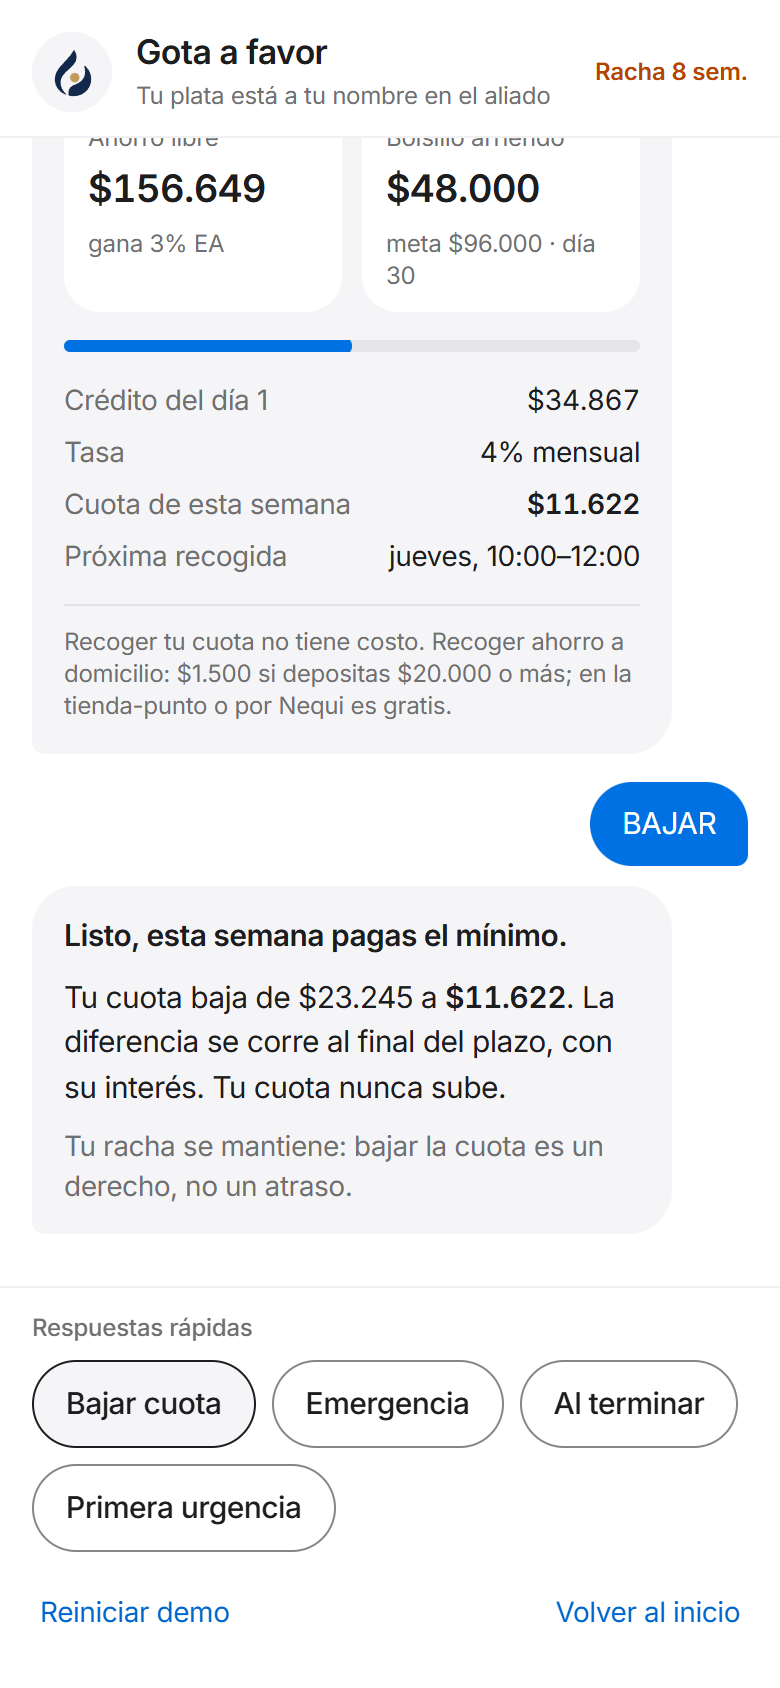
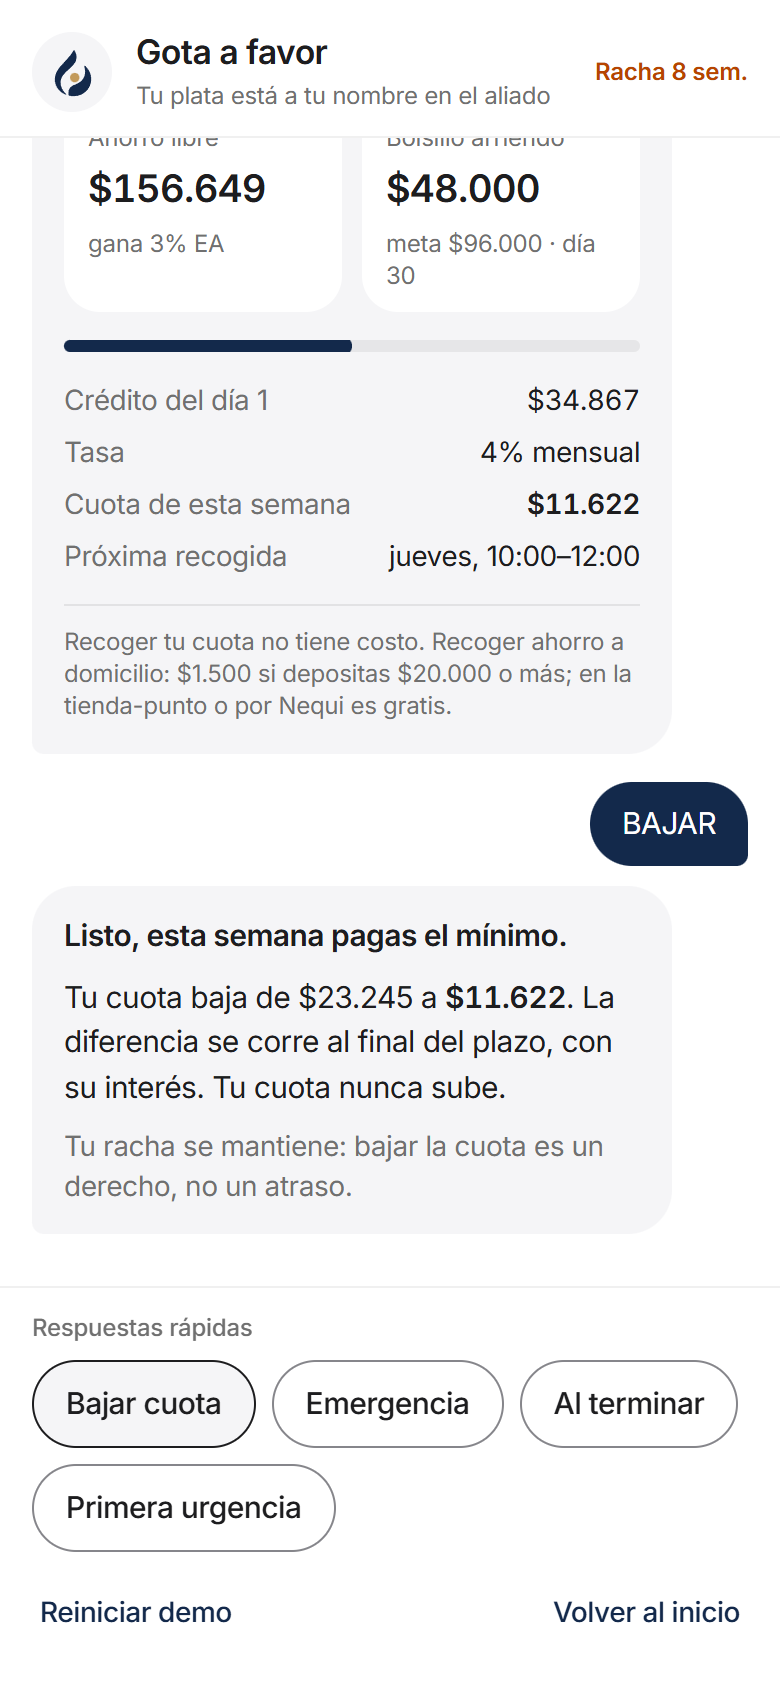
Colores de marca en la acción: navy en vez del azul genérico
- Botones, enlaces, burbujas del usuario, barras de avance, filtros
  elegidos y foco pasan a brand-navy (#13294b), con hover #0b1a33
- Se quitan los tokens blue, blue-fill y blue-deep del DESIGN
- Renders del inicio regenerados e importados de forma estática para
  que la URL lleve hash y nunca salgan de caché

diff --git a/src/app/page.tsx b/src/app/page.tsx
@@ -1,10 +1,14 @@
-import Image from "next/image";
+import Image, { type StaticImageData } from "next/image";
 import Link from "next/link";
 import { ChevronRight } from "lucide-react";
 import { BarraDemo } from "@/components/BarraDemo";
 import { Logotipo } from "@/components/Marca";
 import { Revelador } from "@/components/Revelador";
 import { foco, transicion } from "@/components/estilos";
+// Importación estática: Next pone un hash de contenido en la URL, así un render nuevo nunca sale de caché.
+import renderCliente from "../../public/renders/cliente.png";
+import renderPlataforma from "../../public/renders/plataforma.png";
+import renderRecaudador from "../../public/renders/recaudador.png";
 
 const vistas = [
   {
@@ -12,21 +16,21 @@ const vistas = [
     kicker: "Cliente",
     titulo: "Tu plata, a tu nombre. Por WhatsApp.",
     texto: "Marta ve su extracto semanal, baja su cuota, pide una emergencia o resuelve su primera urgencia.",
-    render: { src: "/renders/cliente.png", ancho: 780, alto: 1688 },
+    render: renderCliente,
   },
   {
     href: "/recaudador",
     kicker: "Recaudador",
     titulo: "La ruta del barrio, con comprobante.",
     texto: "Registra cada visita, envía el comprobante y cuida el efectivo en mano hasta la tienda-punto.",
-    render: { src: "/renders/recaudador.png", ancho: 780, alto: 1688 },
+    render: renderRecaudador,
   },
   {
     href: "/plataforma",
     kicker: "Plataforma",
     titulo: "El piloto, por dentro.",
     texto: "Seguimiento, rutas, clientes, aliado y comisiones, y distribuidores, con cifras del mes 7.",
-    render: { src: "/renders/plataforma.png", ancho: 1920, alto: 1200 },
+    render: renderPlataforma,
   },
 ] as const;
 
@@ -37,7 +41,7 @@ const pasos = [
   { titulo: "Crédito que solo baja", texto: "Tu racha abre crédito regulado; la cuota puede bajar, nunca subir." },
 ];
 
-const enlaceAzul = `inline-flex min-h-11 items-center gap-0.5 rounded-link text-body text-blue underline-offset-4 hover:underline ${transicion} ${foco}`;
+const enlaceMarca = `inline-flex min-h-11 items-center gap-0.5 rounded-link text-body font-medium text-brand-navy underline-offset-4 hover:underline ${transicion} ${foco}`;
 
 export default function Inicio() {
   return (
@@ -67,11 +71,11 @@ export default function Inicio() {
             <div className="mt-2 flex flex-wrap items-center justify-center gap-x-6 gap-y-3">
               <Link
                 href="/cliente"
-                className={`presionable inline-flex h-11 items-center rounded-full bg-blue-fill px-6 text-body font-medium text-white hover:bg-blue-deep ${foco}`}
+                className={`presionable inline-flex h-11 items-center rounded-full bg-brand-navy px-6 text-body font-medium text-white hover:bg-brand-navy-deep ${foco}`}
               >
                 Ver la demo
               </Link>
-              <Link href="#mecanismo" className={enlaceAzul}>
+              <Link href="#mecanismo" className={enlaceMarca}>
                 Cómo funciona
                 <ChevronRight size={18} strokeWidth={1.75} aria-hidden />
               </Link>
@@ -80,9 +84,9 @@ export default function Inicio() {
           </div>
 
           <div className="mx-auto mt-14 flex max-w-[760px] items-end justify-center gap-4 sm:gap-8 md:mt-16">
-            <Telefono src="/renders/recaudador.png" alt="" className="hidden translate-y-10 sm:block" />
+            <Telefono src={renderRecaudador} alt="" className="hidden translate-y-10 sm:block" />
             <Telefono
-              src="/renders/cliente.png"
+              src={renderCliente}
               alt="El chat del cliente: extracto semanal con ahorro, bolsillo arriendo y cuota de la semana"
               prioridad
             />
@@ -96,7 +100,7 @@ export default function Inicio() {
               <h2 id="vistas-titulo" className="font-display text-[32px] leading-tight font-semibold md:text-feature">
                 Recorre el prototipo.
               </h2>
-              <Link href="/cliente" className={enlaceAzul}>
+              <Link href="/cliente" className={enlaceMarca}>
                 Empezar por el cliente
                 <ChevronRight size={18} strokeWidth={1.75} aria-hidden />
               </Link>
@@ -112,17 +116,15 @@ export default function Inicio() {
                       <p className="text-body-sm font-semibold text-ink">{v.kicker}</p>
                       <h3 className="font-display text-feature-sm font-semibold text-ink">{v.titulo}</h3>
                       <p className="text-body text-muted">{v.texto}</p>
-                      <span className="mt-1 inline-flex items-center gap-0.5 text-body text-blue group-hover:underline">
+                      <span className="mt-1 inline-flex items-center gap-0.5 text-body font-medium text-brand-navy group-hover:underline">
                         Abrir
                         <ChevronRight size={18} strokeWidth={1.75} aria-hidden />
                       </span>
                     </div>
                     <div className="relative mt-auto h-64 overflow-hidden">
                       <Image
-                        src={v.render.src}
+                        src={v.render}
                         alt=""
-                        width={v.render.ancho}
-                        height={v.render.alto}
                         sizes="(min-width: 1024px) 380px, 90vw"
                         className={
                           v.href === "/plataforma"
@@ -194,7 +196,7 @@ function Telefono({
   className = "",
   prioridad = false,
 }: {
-  src: string;
+  src: StaticImageData;
   alt: string;
   className?: string;
   prioridad?: boolean;
@@ -204,8 +206,6 @@ function Telefono({
       <Image
         src={src}
         alt={alt}
-        width={780}
-        height={1688}
         priority={prioridad}
         sizes="270px"
         className="h-auto w-full rounded-[36px] sm:rounded-[41px]"

diff --git a/src/components/estilos.ts b/src/components/estilos.ts
@@ -1,32 +1,32 @@
 /**
- * Clases compartidas, según DESIGN (1): botones en píldora, azul solo para
- * acciones y enlaces, foco visible en azul. "presionable" (globals.css) da la
+ * Clases compartidas, según DESIGN (1): botones en píldora. El color de acción
+ * es el navy de la marca (botones, enlaces y foco visible). "presionable" (globals.css) da la
  * respuesta al presionar: escala 0,97 al bajar el dedo.
  */
 
 export const foco =
-  "focus-visible:outline-none focus-visible:ring-2 focus-visible:ring-blue/50 focus-visible:ring-offset-2 focus-visible:ring-offset-card";
+  "focus-visible:outline-none focus-visible:ring-2 focus-visible:ring-brand-navy/40 focus-visible:ring-offset-2 focus-visible:ring-offset-card";
 
 export const transicion = "transition-colors duration-150 ease-out";
 
-/** Píldora azul de acción (Pricing Blue). */
-export const botonPrimario = `presionable inline-flex h-11 items-center justify-center rounded-full bg-blue-fill px-5 text-[15px] font-medium text-white hover:bg-blue-deep disabled:bg-control disabled:text-muted ${foco}`;
+/** Píldora navy de acción (color de la marca). */
+export const botonPrimario = `presionable inline-flex h-11 items-center justify-center rounded-full bg-brand-navy px-5 text-[15px] font-medium text-white hover:bg-brand-navy-deep disabled:bg-control disabled:text-muted ${foco}`;
 
 /** Píldora con contorno (Outlined Explore Pill): sin relleno de color. */
 export const botonSecundario = `presionable inline-flex h-11 items-center justify-center rounded-full border border-steel bg-card px-4 text-[15px] font-medium text-ink hover:border-ink hover:bg-mist disabled:border-line disabled:text-muted disabled:hover:bg-card ${foco}`;
 
-/** Opción elegible dentro de una respuesta: se rellena en azul al elegirla. */
+/** Opción elegible dentro de una respuesta: se rellena en navy al elegirla. */
 export const botonOpcion = (activo: boolean) =>
   `presionable inline-flex h-11 items-center justify-center rounded-full border px-4 text-[15px] font-medium ${foco} ${
     activo
-      ? "border-blue-fill bg-blue-fill text-white hover:bg-blue-deep"
+      ? "border-brand-navy bg-brand-navy text-white hover:bg-brand-navy-deep"
       : "border-steel bg-card text-ink hover:border-ink hover:bg-mist"
   }`;
 
-/** Enlace de texto azul (Apple Blue), con área táctil de 44 px. */
-export const botonDiscreto = `inline-flex h-11 items-center rounded-link px-1 text-body-sm text-blue underline-offset-4 hover:underline ${transicion} ${foco}`;
+/** Enlace de texto navy de la marca, con área táctil de 44 px. */
+export const botonDiscreto = `inline-flex h-11 items-center rounded-link px-1 text-body-sm font-medium text-brand-navy underline-offset-4 hover:underline ${transicion} ${foco}`;
 
 /** Variantes compactas (14 px) para filas con dos botones en el ancho de un celular. */
-export const botonPrimarioCompacto = `presionable inline-flex h-11 items-center justify-center rounded-full bg-blue-fill px-4 text-body-sm font-medium whitespace-nowrap text-white hover:bg-blue-deep disabled:bg-control disabled:text-muted ${foco}`;
+export const botonPrimarioCompacto = `presionable inline-flex h-11 items-center justify-center rounded-full bg-brand-navy px-4 text-body-sm font-medium whitespace-nowrap text-white hover:bg-brand-navy-deep disabled:bg-control disabled:text-muted ${foco}`;
 
 export const botonSecundarioCompacto = `presionable inline-flex h-11 items-center justify-center rounded-full border border-steel bg-card px-3.5 text-body-sm font-medium whitespace-nowrap text-ink hover:border-ink hover:bg-mist disabled:border-line disabled:text-muted disabled:hover:bg-card ${foco}`;

diff --git a/tailwind.config.ts b/tailwind.config.ts
@@ -2,9 +2,9 @@ import type { Config } from "tailwindcss";
 
 /**
  * Tokens de Gota a favor, según DESIGN (1): galería blanca estilo Apple.
- * Lienzo blanco, bandas #f5f5f7, texto #1d1d1f y un solo azul para enlaces y
- * acciones. El navy y el dorado quedan para la marca. Nunca hex sueltos en
- * los componentes.
+ * Lienzo blanco, bandas #f5f5f7 y texto #1d1d1f. El color de acción es el
+ * navy de la marca (no el azul genérico del DESIGN) y el dorado queda para
+ * acentos de marca. Nunca hex sueltos en los componentes.
  */
 const config: Config = {
   content: ["./src/**/*.{ts,tsx}"],
@@ -24,10 +24,6 @@ const config: Config = {
         muted: "#707070", // Slate: texto secundario
         steel: "#86868b", // contornos de píldoras y entradas
         "on-dark": "#a1a1a6", // texto secundario sobre fondo oscuro
-        // Acción
-        blue: "#0066cc", // Apple Blue: enlaces
-        "blue-fill": "#0071e3", // Pricing Blue: botones de acción
-        "blue-deep": "#0060c0", // presión y hover de los botones azules
         // Estados
         orange: "#b64400", // Launch Orange: etiquetas de estado
         "orange-soft": "#fff3eb",
@@ -36,8 +32,10 @@ const config: Config = {
         "green-soft": "#e8f5eb",
         red: "#c4001a",
         "red-soft": "#fdecee",
-        // Marca (logo)
+        // Marca (logo). El navy es el color de acción: botones, enlaces,
+        // burbujas del usuario, barras de avance y foco.
         "brand-navy": "#13294b",
+        "brand-navy-deep": "#0b1a33", // hover y presión de los botones navy
         gold: "#c29a5b", // punto de la gota y barra de efectivo alta
         "gold-text": "#8a6530", // "favor" del logotipo en texto (contraste AA)
       },

diff --git a/src/components/plataforma/ui.tsx b/src/components/plataforma/ui.tsx
@@ -5,7 +5,7 @@ import { foco, transicion } from "../estilos";
 
 /**
  * Piezas del tablero según DESIGN (1): tarjetas blancas de 28 px sin borde ni
- * sombra sobre la banda #f5f5f7, tiles internos en #f5f5f7 y enlaces azules.
+ * sombra sobre la banda #f5f5f7, tiles internos en #f5f5f7 y enlaces en navy de la marca.
  */
 
 export function Tarjeta({ children, className = "", id }: { children: ReactNode; className?: string; id?: string }) {
@@ -32,7 +32,7 @@ export function EncabezadoTarjeta({
       {enlace && (
         <Link
           href={enlace.href}
-          className={`inline-flex min-h-8 items-center gap-0.5 rounded-link text-body-sm text-blue underline-offset-4 hover:underline ${transicion} ${foco}`}
+          className={`inline-flex min-h-8 items-center gap-0.5 rounded-link text-body-sm font-medium text-brand-navy underline-offset-4 hover:underline ${transicion} ${foco}`}
         >
           {enlace.label}
           <ChevronRight size={16} strokeWidth={1.75} aria-hidden />
@@ -103,7 +103,7 @@ export function Barra({
       className={`${alto} overflow-hidden rounded-full bg-control`}
     >
       <div
-        className={`${alto} w-full origin-left rounded-full bg-blue-fill transition-transform duration-300 ease-out motion-reduce:transition-none`}
+        className={`${alto} w-full origin-left rounded-full bg-brand-navy transition-transform duration-300 ease-out motion-reduce:transition-none`}
         style={{ transform: `scaleX(${f})` }}
       />
     </div>

diff --git a/src/components/plataforma/Clientes.tsx b/src/components/plataforma/Clientes.tsx
@@ -93,7 +93,7 @@ export function Clientes() {
                   onClick={() => setFiltro(f.id)}
                   className={`presionable h-9 rounded-full border px-3.5 text-body-sm font-medium ${foco} ${
                     filtro === f.id
-                      ? "border-blue-fill bg-blue-fill text-white hover:bg-blue-deep"
+                      ? "border-brand-navy bg-brand-navy text-white hover:bg-brand-navy-deep"
                       : "border-steel bg-card text-ink-soft hover:border-ink hover:text-ink"
                   }`}
                 >
@@ -131,7 +131,7 @@ export function Clientes() {
                             type="button"
                             aria-pressed={activo}
                             onClick={() => elegir(c.id)}
-                            className={`flex min-h-11 w-full flex-col justify-center rounded-link px-1 text-left hover:text-blue ${foco}`}
+                            className={`flex min-h-11 w-full flex-col justify-center rounded-link px-1 text-left font-medium hover:text-brand-navy ${foco}`}
                           >
                             <span className="font-semibold">{c.nombre}</span>
                             <span className="text-caption text-muted">{c.negocio}</span>

diff --git a/src/components/cliente/ChatCliente.tsx b/src/components/cliente/ChatCliente.tsx
@@ -127,7 +127,7 @@ export function ChatCliente() {
             className="h-1.5 overflow-hidden rounded-full bg-control"
           >
             <div
-              className="h-1.5 w-full origin-left rounded-full bg-blue-fill"
+              className="h-1.5 w-full origin-left rounded-full bg-brand-navy"
               style={{ transform: `scaleX(${c.bolsilloArriendo / c.metaArriendo})` }}
             />
           </div>
@@ -209,7 +209,7 @@ function RespuestaBot({ children, className = "gap-2" }: { children: ReactNode; 
 
 function MensajeUsuario({ children }: { children: ReactNode }) {
   return (
-    <p className="entra entra-derecha max-w-[280px] self-end rounded-[22px] rounded-br-md bg-blue-fill px-4 py-2.5 text-[15px] text-white">
+    <p className="entra entra-derecha max-w-[280px] self-end rounded-[22px] rounded-br-md bg-brand-navy px-4 py-2.5 text-[15px] text-white">
       {children}
     </p>
   );

diff --git a/src/components/plataforma/Distribuidores.tsx b/src/components/plataforma/Distribuidores.tsx
@@ -98,7 +98,7 @@ export function Distribuidores() {
                     <span className="flex items-center gap-2">
                       <span className="flex gap-1" aria-hidden>
                         {p.avance.cuotas.map((_, i) => (
-                          <span key={i} className={`size-2 rounded-full ${i < p.avance.hechas ? "bg-blue-fill" : "bg-control"}`} />
+                          <span key={i} className={`size-2 rounded-full ${i < p.avance.hechas ? "bg-brand-navy" : "bg-control"}`} />
                         ))}
                       </span>
                       <span className="tabular-nums text-caption">

diff --git a/src/components/plataforma/Shell.tsx b/src/components/plataforma/Shell.tsx
@@ -109,7 +109,7 @@ function NavSecciones({ actual, className, item }: { actual: string; className: 
 }
 
 function OtrasVistas() {
-  const enlace = `inline-flex min-h-8 items-center rounded-link px-1.5 py-1.5 text-caption text-blue underline-offset-4 hover:underline ${transicion} ${foco}`;
+  const enlace = `inline-flex min-h-8 items-center rounded-link px-1.5 py-1.5 text-caption font-medium text-brand-navy underline-offset-4 hover:underline ${transicion} ${foco}`;
   return (
     <nav aria-label="Otras vistas del prototipo" className="flex flex-wrap items-center gap-x-2 gap-y-1">
       <Link href="/" className={enlace}>

diff --git a/src/components/plataforma/Aliado.tsx b/src/components/plataforma/Aliado.tsx
@@ -14,7 +14,7 @@ import { clienteDemo, MES_FLUJO_POSITIVO } from "@/lib/datos";
 import { useRutasSeleccionadas } from "./Shell";
 import { Chip, EncabezadoTarjeta, Kpi, Tarjeta } from "./ui";
 
-const colorFuente = ["bg-blue-fill", "bg-gold", "bg-ink-soft"] as const;
+const colorFuente = ["bg-brand-navy", "bg-gold", "bg-ink-soft"] as const;
 
 const roles = [
   {

diff --git a/README.md b/README.md
@@ -88,7 +88,7 @@ public/renders/        capturas de las vistas para el inicio (scripts/renders.mj
 
 - **Sistema visual: DESIGN (1), galería blanca al estilo Apple.**
   - Lienzo blanco, bandas `#f5f5f7` y texto `#1d1d1f`.
-  - Un solo azul: `#0066cc` para enlaces y `#0071e3` para botones de acción.
+  - Color de acción: el navy de la marca (`#13294b`) en botones, enlaces, burbujas del usuario, barras de avance y foco. Reemplaza al azul genérico del DESIGN. El dorado (`#c29a5b`) queda para el punto de la gota y la barra de efectivo alta.
   - Tarjetas de 28 px sin borde ni sombra, y botones en píldora.
   - Los tokens están en `tailwind.config.ts`; ningún componente usa hex sueltos.
 - **Tipografía.** SF Pro en equipos Apple e Inter (el sustituto que indica el DESIGN) en los demás, cargada con `next/font`. El tracking y el interlineado van por tamaño (`text-hero`, `text-body`, `text-caption`…). Los números usan cifras tabulares.
@@ -142,13 +142,14 @@ Cambios para que las cifras y el mensaje coincidan con el documento entregado:
    - banda de destacados con tres tarjetas grandes;
    - sección editorial del mecanismo;
    - cierre con el logo apilado.
-4. **Chat del cliente al estilo Mensajes:** globos grises y azules y barras translúcidas.
+4. **Chat del cliente al estilo Mensajes:** globos grises y navy, y barras translúcidas.
 5. **Recaudador con banda oscura** y aviso de efectivo anclado abajo.
 6. **Plataforma sobre banda gris** con tarjetas de 28 px, filtro de ruta como control segmentado y montos que se ajustan al ancho de su tarjeta.
 7. **Movimiento** según las skills *apple-design*, *emil-design-eng*, *find-animation-opportunities*, *improve-animations* y *animate*.
    - *animate-expo* no aplica: es para React Native.
    - De *ui-ux-pro-max* se tomaron el patrón "Trust & Authority", los anti-patrones (sin degradados ni estilo lúdico) y el checklist de entrega. Su paleta oscura no se usó porque contradice el DESIGN elegido.
-8. **Verificación:**
+8. **Colores de marca en la acción:** botones, enlaces, burbujas del usuario, barras de avance y foco pasan del azul genérico del DESIGN al navy de la marca.
+9. **Verificación:**
    - lint, 39 pruebas y build sin errores;
    - Lighthouse 100 en accesibilidad, buenas prácticas y SEO en las 8 rutas, en celular y escritorio;
    - Playwright recorre los flujos a 390 y 1440 px.
